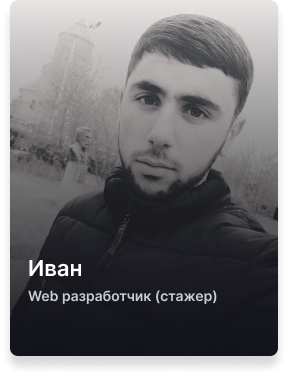
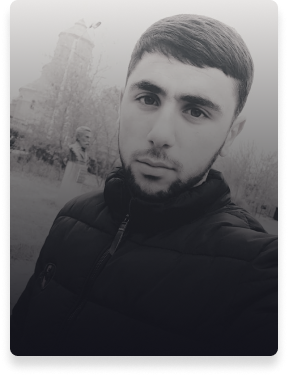
last 555

Changed region(s): [[0.0938, 0.7606, 0.75, 0.8191], [0.0938, 0.6729, 0.2812, 0.7314]]

diff --git a/index.html b/index.html
@@ -15,74 +15,69 @@
 		<link rel="stylesheet" href="assets/css/header.css">
 	</head>
 	<body>
-	<div class="header__wrapper">
-		<nav class="nav_menu">
-			<input type="checkbox" class="myCheckBox" id="myCheck">
-			<label for="myCheck" class="checkButton">
-				<i class="fa fa-bars"></i>
-			</label>
-			<div class="block-logo"> 
-
-				<div class="video-container">
-					<span class="close">&#10006;</span>
-					<video class="video" controls>
-						<source src="assets/video/video.mp4">
-					</video>
-		
-				</div>
-				<i class="button button_form_circle button_theme_image link_hide-text  video-player" ><span class="button__play-video">Просмотреть видео о SFERA</span></i>
-
-				<label class="logo">
-					<svg width="247" height="40" viewBox="0 0 247 40" fill="none" class="logo__image">
-						<g filter="url(#filter0_i_6961_2109)">
-							<path d="M14.4968 22.9517L14.3307 22.8966L14.0538 22.8414L14.0049 22.8287C12.72 22.4948 10.371 21.8846 8.18405 20.4138C5.08304 18.3724 3.36641 15.3931 3.20029 11.6966C3.03416 8.6069 4.03092 5.90345 6.02442 3.8069C8.90393 0.827586 13.0571 0 15.0506 0C20.6888 0 23.844 2.03414 26.6643 3.85237L26.6793 3.86207L27.953 4.68965L23.9106 11.2552L22.5262 10.3724L22.468 10.335C20.0091 8.7561 18.4021 7.72414 15.0506 7.72414C14.5522 7.72414 12.6141 8.11035 11.6173 9.15862C11.2851 9.48965 10.8974 10.0966 10.9528 11.3655C11.0082 13.3517 12.3926 14.4552 15.9366 15.3379C16.3796 15.4483 16.7118 15.5586 17.0441 15.669C20.7542 16.9379 23.6337 18.6483 25.6272 20.8C27.6207 23.0069 28.6729 25.6 28.6729 28.3586C28.6729 31.0621 27.51 33.8759 25.5718 36.0276C23.3015 38.5655 20.1451 40 16.6564 40C14.9398 40 12.6141 39.8897 9.8453 39.0621C6.35667 37.9586 3.25566 36.0276 0.597656 33.2138L6.24592 27.9172C10.3437 32.2759 14.9398 32.2759 16.6564 32.2759C19.8682 32.2759 20.9203 29.3517 20.9203 28.3586C20.9203 26.2621 18.5392 24.331 14.4968 22.9517Z" fill="white" />
-							<path d="M53.297 0.551724H79.1572V8.27586H61.0496V15.3931H76.0009V23.1172H61.0496V39.2276H53.297V0.551724Z" fill="white" />
-							<path d="M104.645 0.551724H130.505V8.27586H104.645V0.551724Z" fill="white" />
-							<path d="M126.075 23.1724H104.645V15.4483H126.075V23.1724Z" fill="white" />
-							<path d="M130.339 39.2276H104.645V31.5035H130.339V39.2276Z" fill="white" />
-							<path d="M175.285 12.1379C175.285 9.98621 173.569 8.22069 171.409 8.22069H163.989V39.1724H156.236V0.496552H171.409C177.833 0.496552 183.038 5.73793 183.038 12.1379C183.038 16.8276 180.269 20.8552 176.227 22.6759L183.924 39.2276H175.673L168.419 23.7241V16H171.409C173.569 16 175.285 14.2897 175.285 12.1379Z" fill="white" />
-							<path d="M206.031 39.2276L225.8 0.551724H228.07L246.399 39.2276H237.816L235.235 33.7495H225.687V27.1524H232.126L226.741 15.7241L214.725 39.2276H206.031Z" fill="white" />
-						</g>
-						<defs>
-							<filter id="filter0_i_6961_2109" x="0.597656" y="0" width="246.516" height="42.5671" filterUnits="userSpaceOnUse" color-interpolation-filters="sRGB">
-								<feFlood flood-opacity="0" result="BackgroundImageFix" />
-								<feBlend mode="normal" in="SourceGraphic" in2="BackgroundImageFix" result="shape" />
-								<feColorMatrix in="SourceAlpha" type="matrix" values="0 0 0 0 0 0 0 0 0 0 0 0 0 0 0 0 0 0 127 0" result="hardAlpha" />
-								<feOffset dx="0.715292" dy="2.86117" />
-								<feGaussianBlur stdDeviation="1.28355" />
-								<feComposite in2="hardAlpha" operator="arithmetic" k2="-1" k3="1" />
-								<feColorMatrix type="matrix" values="0 0 0 0 0 0 0 0 0 0 0 0 0 0 0 0 0 0 0.5 0" />
-								<feBlend mode="normal" in2="shape" result="effect1_innerShadow_6961_2109" />
-							</filter>
-						</defs>
-					</svg>
-				</label>
-			</div>
-			<ul class="nav_list" >
-				<li class="nav_list-item"><a class="nav_list-link active" href="#">Главная</a></li>
-				<li class="nav_list-item"><a class="nav_list-link " href="./ru/apps.html">Приложения</a></li>
-				<li class="nav_list-item"><a class="nav_list-link" href="./ru/downloads.html">Скачать</a></li>
-				<li class="nav_list-item"><a class="nav_list-link" href="./ru/news.html">Новости</a></li>
-				<li class="nav_list-item"><a class="nav_list-link" href="./ru/startups.html">Стартапам</a></li>
-				<li class="nav_list-item"><a class="nav_list-link" href="./ru/investment.html">Инвестиции</a></li>
-				<li class="nav_list-item"><a class="nav_list-link" href="./ru/team.html">Команда</a></li>
-			</ul>
-			<div class="langs">
-				<img src="./assets/img/language_24px.svg" alt="">
-				<ul class="langs__list">
-					<li class="langs__item langs__dropdown-menu dropdown-menu"> <a class="langs__link  button_theme_dark" href="#">RU</a>
-						<div class="dropdown-menu__content langs__submenu">
+		<div class="page">
+			<nav class="nav_menu">
+					<input type="checkbox" class="myCheckBox" id="myCheck">
+					<label for="myCheck" class="checkButton">
+							<i class="fa fa-bars"></i>
+					</label>
+					<div class="block-logo">
+							<div class="video-container">
+									<span class="close">&#10006;</span>
+									<video class="video" src="../assets/video/video.mp4" controls></video>
+							</div>
+							<i class="button button_form_circle button_theme_image link_hide-text  video-player" ><span class="button__play-video">Просмотреть видео о SFERA</span></i>
+							<label class="logo">
+									<svg width="247" height="40" viewBox="0 0 247 40" fill="none" class="logo__image">
+											<g filter="url(#filter0_i_6961_2109)">
+											<path d="M14.4968 22.9517L14.3307 22.8966L14.0538 22.8414L14.0049 22.8287C12.72 22.4948 10.371 21.8846 8.18405 20.4138C5.08304 18.3724 3.36641 15.3931 3.20029 11.6966C3.03416 8.6069 4.03092 5.90345 6.02442 3.8069C8.90393 0.827586 13.0571 0 15.0506 0C20.6888 0 23.844 2.03414 26.6643 3.85237L26.6793 3.86207L27.953 4.68965L23.9106 11.2552L22.5262 10.3724L22.468 10.335C20.0091 8.7561 18.4021 7.72414 15.0506 7.72414C14.5522 7.72414 12.6141 8.11035 11.6173 9.15862C11.2851 9.48965 10.8974 10.0966 10.9528 11.3655C11.0082 13.3517 12.3926 14.4552 15.9366 15.3379C16.3796 15.4483 16.7118 15.5586 17.0441 15.669C20.7542 16.9379 23.6337 18.6483 25.6272 20.8C27.6207 23.0069 28.6729 25.6 28.6729 28.3586C28.6729 31.0621 27.51 33.8759 25.5718 36.0276C23.3015 38.5655 20.1451 40 16.6564 40C14.9398 40 12.6141 39.8897 9.8453 39.0621C6.35667 37.9586 3.25566 36.0276 0.597656 33.2138L6.24592 27.9172C10.3437 32.2759 14.9398 32.2759 16.6564 32.2759C19.8682 32.2759 20.9203 29.3517 20.9203 28.3586C20.9203 26.2621 18.5392 24.331 14.4968 22.9517Z" fill="white" />
+											<path d="M53.297 0.551724H79.1572V8.27586H61.0496V15.3931H76.0009V23.1172H61.0496V39.2276H53.297V0.551724Z" fill="white" />
+											<path d="M104.645 0.551724H130.505V8.27586H104.645V0.551724Z" fill="white" />
+											<path d="M126.075 23.1724H104.645V15.4483H126.075V23.1724Z" fill="white" />
+											<path d="M130.339 39.2276H104.645V31.5035H130.339V39.2276Z" fill="white" />
+											<path d="M175.285 12.1379C175.285 9.98621 173.569 8.22069 171.409 8.22069H163.989V39.1724H156.236V0.496552H171.409C177.833 0.496552 183.038 5.73793 183.038 12.1379C183.038 16.8276 180.269 20.8552 176.227 22.6759L183.924 39.2276H175.673L168.419 23.7241V16H171.409C173.569 16 175.285 14.2897 175.285 12.1379Z" fill="white" />
+											<path d="M206.031 39.2276L225.8 0.551724H228.07L246.399 39.2276H237.816L235.235 33.7495H225.687V27.1524H232.126L226.741 15.7241L214.725 39.2276H206.031Z" fill="white" />
+											</g>
+											<defs>
+											<filter id="filter0_i_6961_2109" x="0.597656" y="0" width="246.516" height="42.5671" filterUnits="userSpaceOnUse" color-interpolation-filters="sRGB">
+											<feFlood flood-opacity="0" result="BackgroundImageFix" />
+											<feBlend mode="normal" in="SourceGraphic" in2="BackgroundImageFix" result="shape" />
+											<feColorMatrix in="SourceAlpha" type="matrix" values="0 0 0 0 0 0 0 0 0 0 0 0 0 0 0 0 0 0 127 0" result="hardAlpha" />
+											<feOffset dx="0.715292" dy="2.86117" />
+											<feGaussianBlur stdDeviation="1.28355" />
+											<feComposite in2="hardAlpha" operator="arithmetic" k2="-1" k3="1" />
+											<feColorMatrix type="matrix" values="0 0 0 0 0 0 0 0 0 0 0 0 0 0 0 0 0 0 0.5 0" />
+											<feBlend mode="normal" in2="shape" result="effect1_innerShadow_6961_2109" />
+											</filter>
+											</defs>
+									</svg>
+							</label>
+					</div>
+					<ul class="nav_list" >
+						<li class="nav_list-item"><a class="nav_list-link active" href="#">Главная</a></li>
+						<li class="nav_list-item"><a class="nav_list-link " href="./ru/apps.html">Приложения</a></li>
+						<li class="nav_list-item"><a class="nav_list-link" href="./ru/downloads.html">Скачать</a></li>
+						<li class="nav_list-item"><a class="nav_list-link" href="./ru/news.html">Новости</a></li>
+						<li class="nav_list-item"><a class="nav_list-link" href="./ru/startups.html">Стартапам</a></li>
+						<li class="nav_list-item"><a class="nav_list-link" href="./ru/investment.html">Инвестиции</a></li>
+						<li class="nav_list-item"><a class="nav_list-link" href="./ru/team.html">Команда</a></li>
+					</ul>
+					<div class="langs">
+							<img src="../assets/img/language_24px.svg" alt="">
 							<ul class="langs__list">
-								<li class="langs__item"> <a class="langs__link   button_theme_dark" href="#">EN</a></li>
-								<li class="langs__item"> <a class="langs__link   button_theme_dark" href="#">CS</a></li>
+									<li class="langs__item langs__dropdown-menu dropdown-menu"> <a class="langs__link button_theme_dark" href="#">RU</a>
+											<div class="dropdown-menu__content langs__submenu">
+													<ul class="langs__list">
+															<li class="langs__item"> <a class="langs__link  button_theme_dark" href="#">EN</a></li>
+															<li class="langs__item"> <a class="langs__link  button_theme_dark" href="#">CS</a></li>
+													</ul>
+											</div>
+									</li>
 							</ul>
-						</div>
-					</li>
-				</ul>
-			</div>
-			<div class="langs__arrow"></div>
-		</nav>
-	</div>
+					</div>
+			</nav>
+
+		
 		<main>
 
 			<section class="section__landing">

diff --git a/assets/css/landing.css b/assets/css/landing.css
@@ -784,8 +784,6 @@ a {
 }
 @media screen and (max-width: 320px) {
   
-  
-  
   .section-as-iframe-video {
     width: 280px;
     height: 258px;
